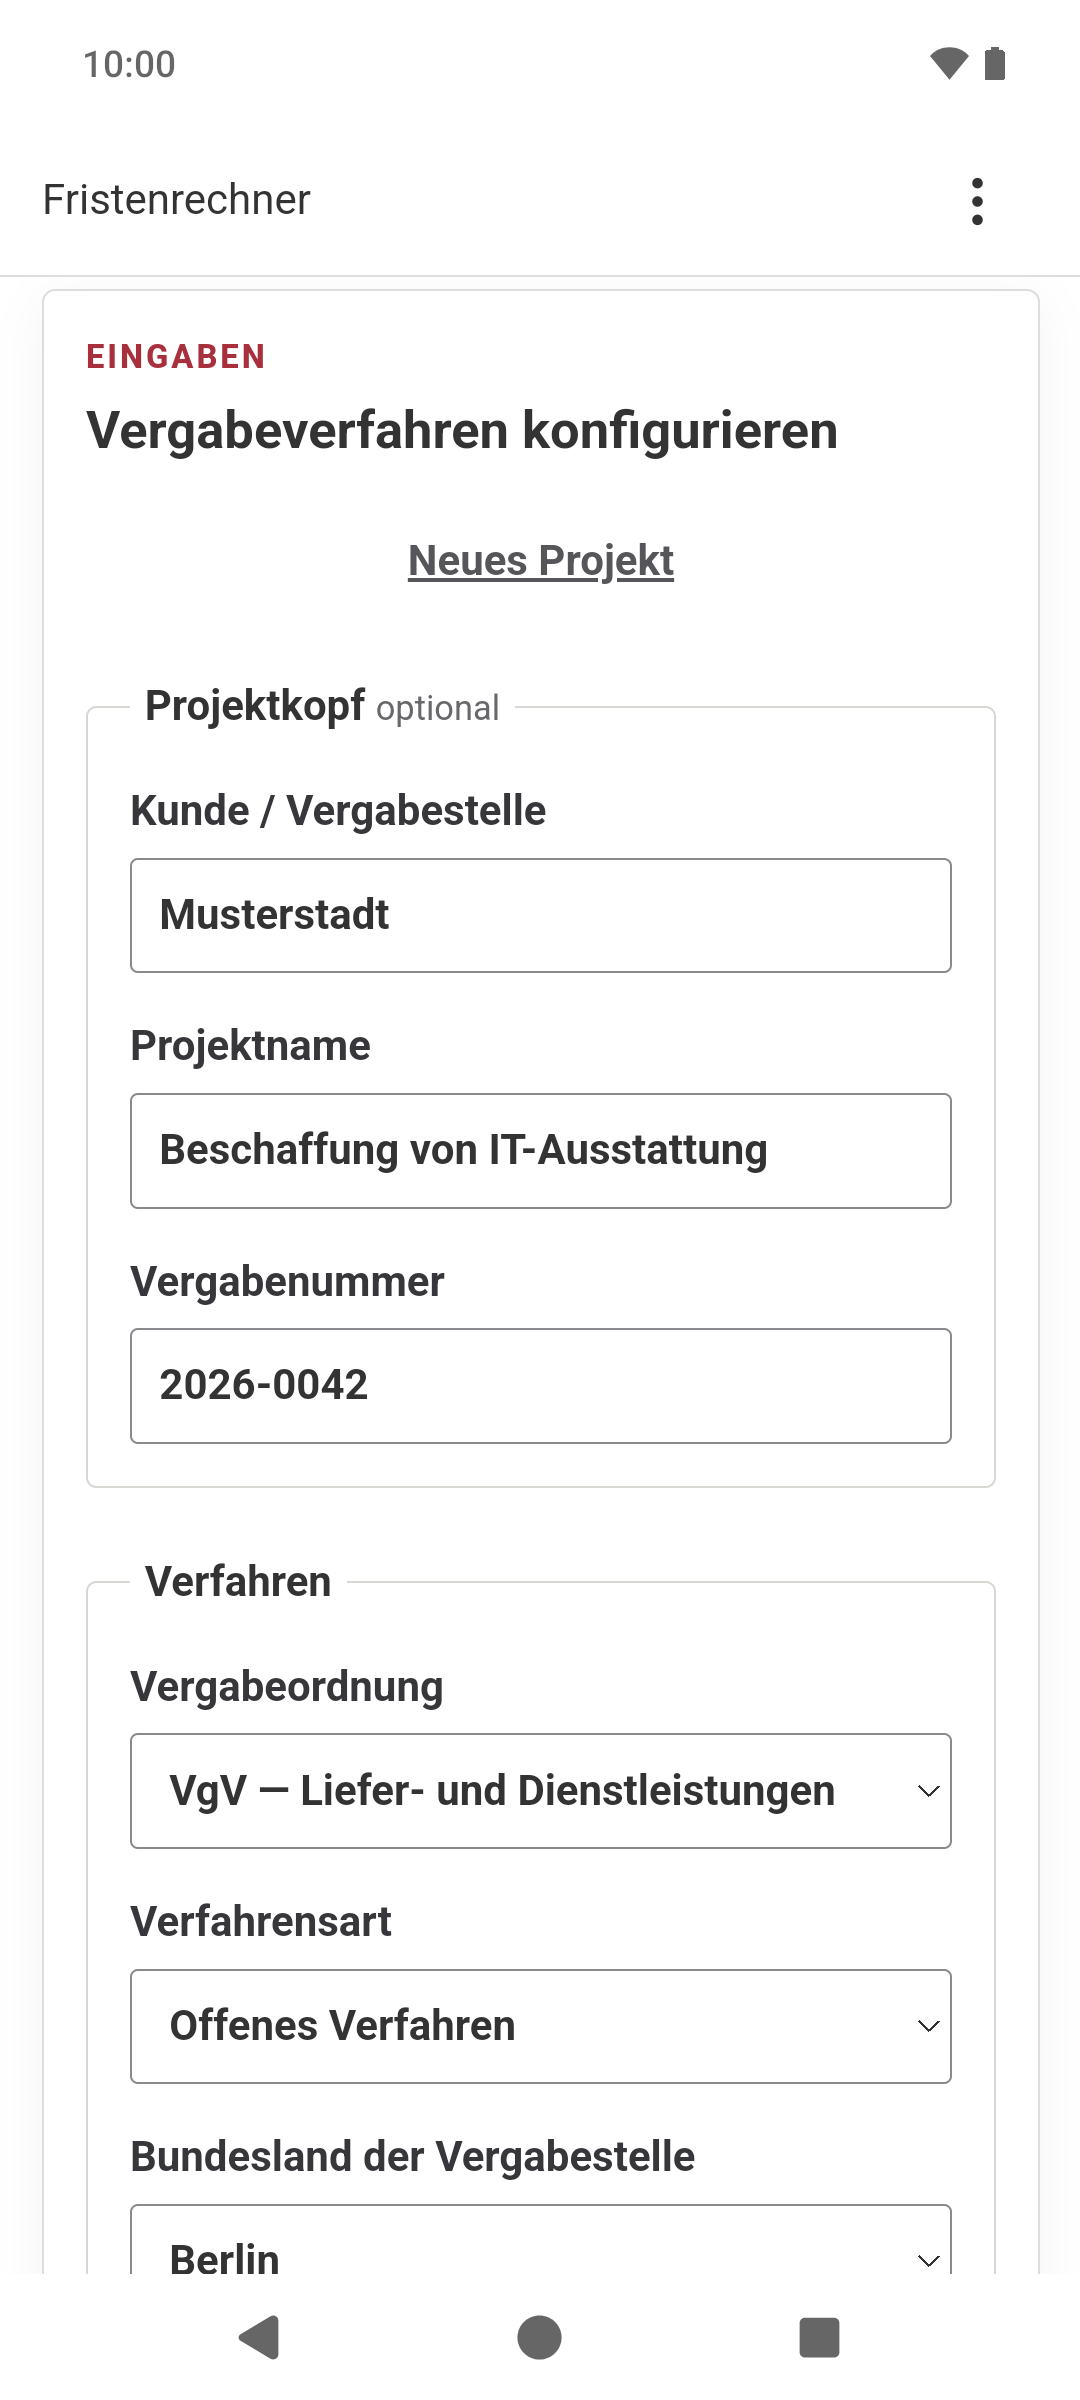
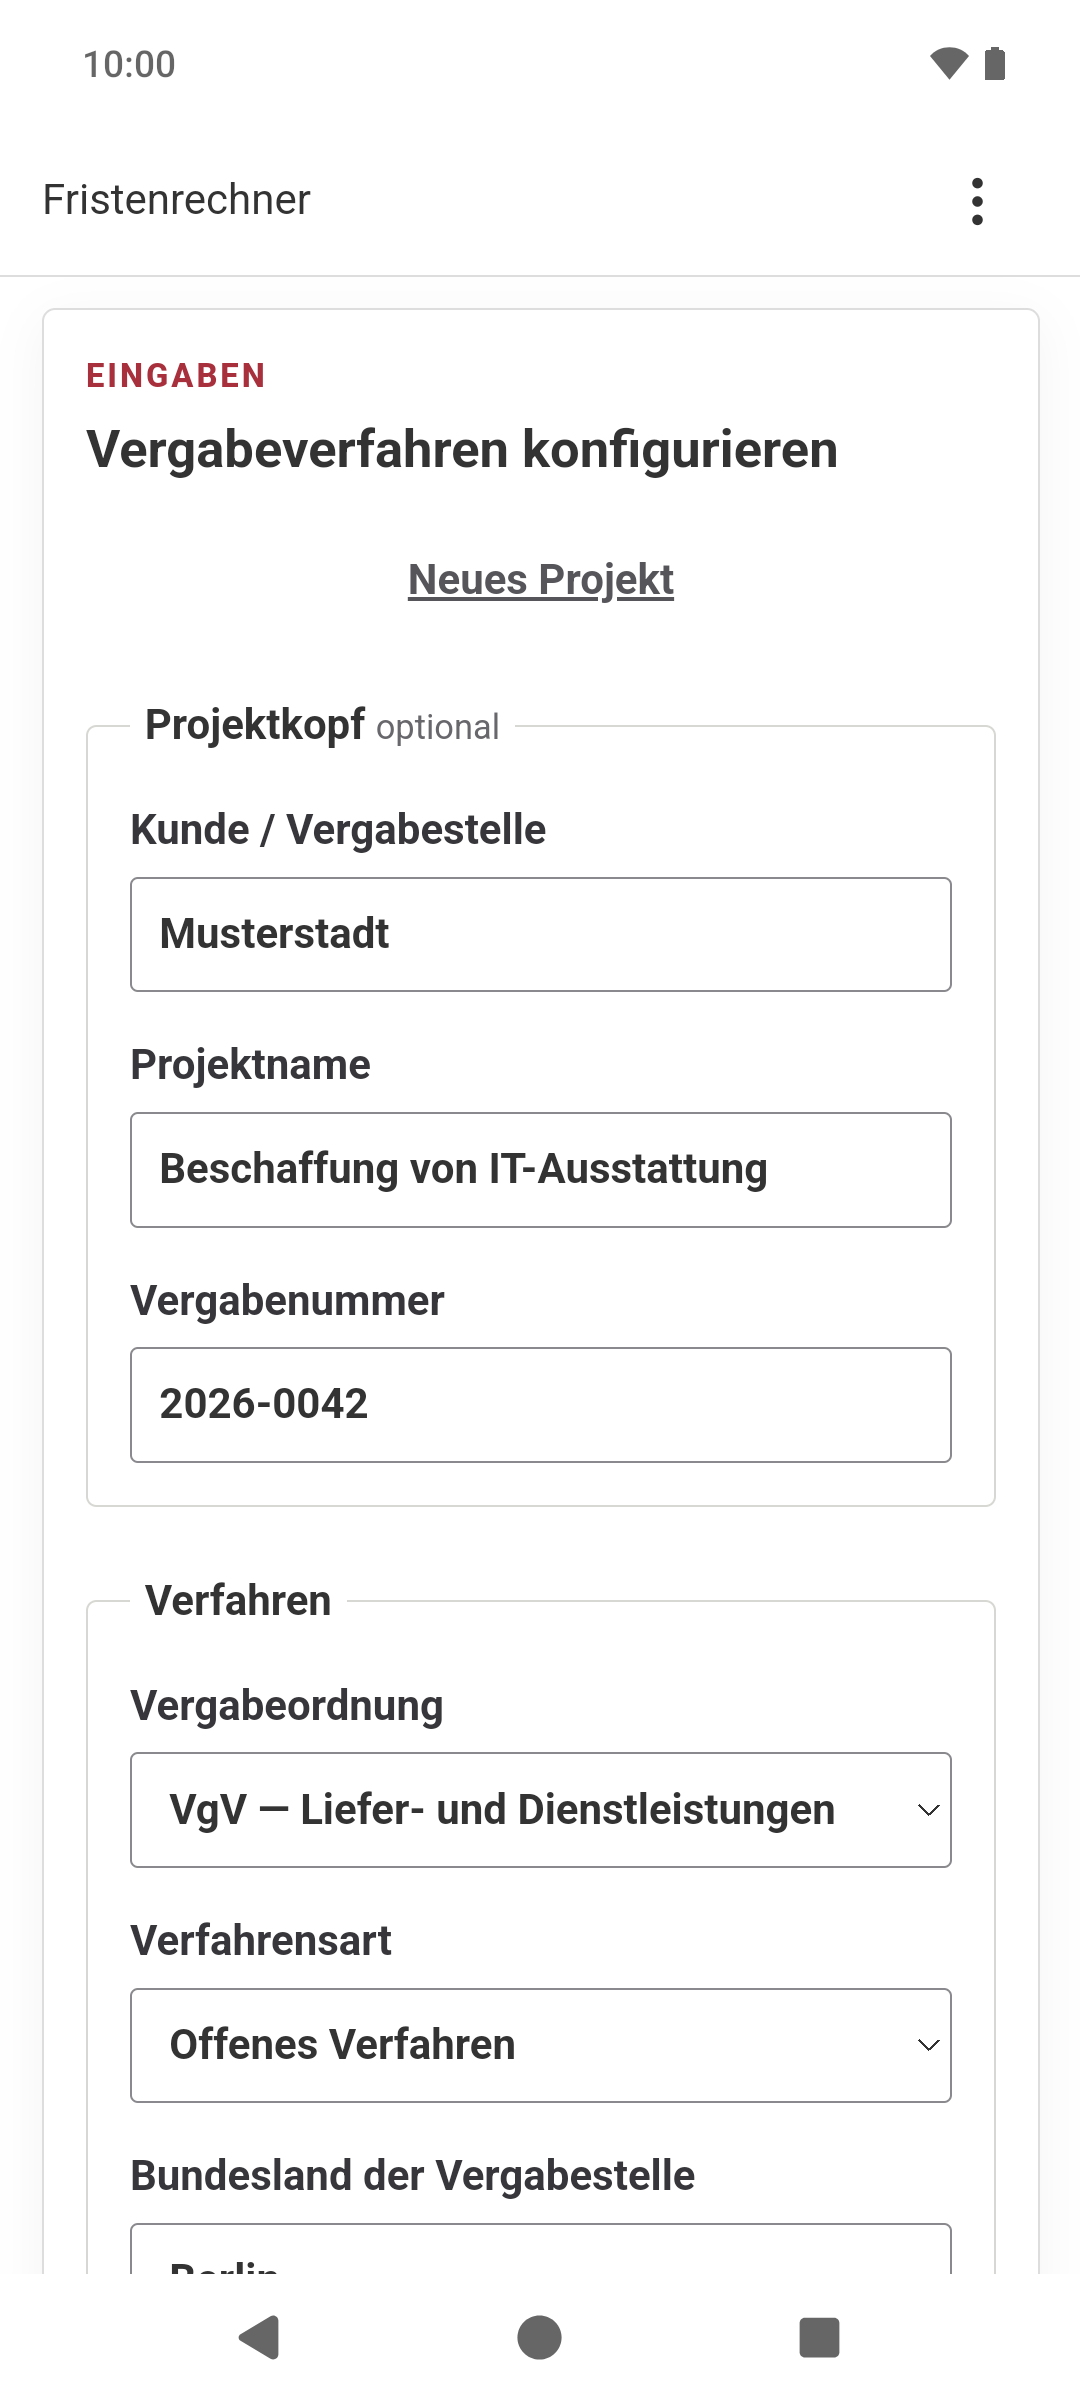
Store-Screenshots: strenge Nachprüfung nach der Aufnahme, fester Rollstand, Tests zu Aufräumen und Layoutruhe
Nach dem Lesereview: Nach der Aufnahme ist jede ungültige Layoutprobe ein Fehler, vor der Aufnahme zählt erst die dritte gleiche gültige Probe in Folge. Der Rollstand wird nach dem Rollen fest aus Ankerlage und Leistenunterkante abgeleitet, weil scrollIntoView zwischen zwei Läufen um neun Gerätepixel abwich. Acht neue Tests (Nachprobe nach der Aufnahme, Installationspfade und fremde Prüfsumme beim Aufräumen, Layoutruhe). Bilder aus Lauf 06, bytegleich zu Lauf 05; Absatz in docs/app.md nachgezogen.

diff --git a/docs/app.md b/docs/app.md
@@ -337,7 +337,7 @@ Der Vergleich gilt für zwei Klone auf demselben Rechner und für den genannten 
 
 `node scripts/store-screenshots.mjs --api 36 --apk-debug app/android/app/build/outputs/apk/debug/app-debug.apk --ausgabe scratchpad/store-screenshots/lauf-01` erstellt vier native PNG-Aufnahmen (1080 × 2400) im bereits laufenden Emulator `fr-api36`: Formular, Terminplantabelle, Zeitschiene und geöffnetes Bottom Sheet „Dateiaktionen“. Voraussetzungen sind die eingerichteten Android-Werkzeuge, Node 22 oder 24 und eine gebaute Debug-APK in diesem Worktree; eine vorhandene App-Installation wird nicht überschrieben. Das Skript startet keinen Emulator und baut keine APK. Es befüllt das reguläre Formular einschließlich Eingabeereignissen und Berechnung mit festen, erfundenen Probedaten („Musterstadt“, Versanddatum 02.11.2026); damit werden dieselben Oberflächenfunktionen wie bei der Eingabe verwendet. Die Gerätebilder entstehen nach Ausrichtung und Layoutruhe per ADB einschließlich Statusleiste im Demo-Modus. Der Lauf protokolliert Werkzeugversionen, Auflösung, APK- und Bildprüfsummen, Daten, Rollstände und Dauer in `protokoll.json`, stellt veränderte Einstellungen zurück und entfernt seine Installation und Weiterleitungen. Temporäre Dateien bleiben unter dem neuen, anfangs leeren Ausgabeordner; externe Netzverbindungen sind nicht vorgesehen, CDP verwendet ausschließlich die lokale ADB-Weiterleitung. `--nur-argumente` prüft den Aufruf ohne Gerätezugriff. Die menschliche Sichtprüfung steht zunächst mit Rückgabewert 4 aus: `sichtpruefung.json` verwendet Schema 2 mit Prüfperson, Datum, Bemerkung und Hashbindung nach dem Muster der Browserprüfung, jedoch die eigene Belegart „Gerätevollbild“ statt Elementausschnitten. Nach der Sichtung wertet `node scripts/store-screenshots.mjs --auswerten --ausgabe scratchpad/store-screenshots/lauf-01` die unveränderten Bilder erneut aus (0 bestanden, 1 Sichtprüfung nicht bestanden, 2 ungültig, 3 dokumentierte Grenze, 4 Sichtprüfung ausstehend). Bytegleichheit muss durch Wiederholung geprüft werden; insbesondere Systemabbild, WebView, Dichte und Systemleisten können Abweichungen verursachen. Ein sichtbarer Warnhinweis, auch zum Rechtsstand bei späterem Gerätedatum, macht die Aufnahme ungültig; das Skript blendet ihn nicht aus. Der Lauf ersetzt weder die Sichtprüfung noch eine Freigabe zur Veröffentlichung.
 
-Stand vom 18.10.2026 am Quellstand `f1f3db3` (Debug-APK aus diesem Stand, Emulator `fr-api36` mit System-WebView 133.0.6943.137, Dichte 420, Schaltflächennavigation): zwei vollständige Läufe lieferten alle vier Bilder bytegleich; ein dritter Lauf dazwischen endete ungültig, weil eine einzelne Layoutprobe direkt nach dem Rollen abgelehnt wurde. Seitdem zählt erst die dritte gleiche gültige Probe in Folge, eine abgelehnte Probe setzt die Zählung zurück, und die Fehlermeldung nennt die letzte Messung. Außerdem erkennt das Aufräumen den Installationspfad von Android 11 und neuer (`/data/app/~~…/`). Die vier Bilder nach Sichtprüfung liegen als `fastlane/metadata/android/de-DE/images/phoneScreenshots/1.png` bis `4.png` (gleich in `en-US`) im Repository; die Bilder tragen die bereinigte Statusleiste und die Probedaten des Skripts, keine Gerätedaten. Jede Änderung an Oberfläche oder App-Seite verlangt einen neuen Lauf, weil die Bilder sonst einen alten Stand zeigen.
+Stand vom 18.10.2026 am Quellstand `f1f3db3` (Debug-APK aus diesem Stand, Emulator `fr-api36` mit System-WebView 133.0.6943.137, Dichte 420, Schaltflächennavigation): Sechs Läufe: Lauf 01 und 03 lieferten vollständige, bytegleiche Bildsätze; Lauf 01 endete trotzdem ungültig, weil das Aufräumen den Installationspfad von Android 11 und neuer (`/data/app/~~…/`) nicht erkannte und die Deinstallation unterblieb; Lauf 02 endete ungültig, weil eine einzelne Layoutprobe direkt nach dem Rollen abgelehnt wurde; Lauf 04 lieferte Bild 1 um neun Gerätepixel vertikal verschoben, weil `scrollIntoView` bei gleicher Dokumentlage des Ankers nicht immer denselben Rollstand ergab. Seitdem erkennt das Aufräumen die Pfadform, der Rollstand wird nach dem Rollen fest aus Ankerlage und Leistenunterkante abgeleitet und auf Gerätepixel gerundet (`rollziel` im Protokoll), vor der Aufnahme zählt erst die dritte gleiche gültige Probe in Folge und eine abgelehnte Probe setzt die Zählung zurück; nach der Aufnahme bleibt jede abgelehnte Probe ein Fehler, damit ein Bild aus einem verdeckten Zustand nicht durch eine spätere Beruhigung gedeckt wird. Die Fehlermeldung nennt die abgelehnte Messung. Lauf 05 und 06 lieferten mit diesem Stand alle vier Bilder bytegleich. Die vier Bilder aus Lauf 06 liegen nach Sichtprüfung als `fastlane/metadata/android/de-DE/images/phoneScreenshots/1.png` bis `4.png` (gleich in `en-US`) im Repository; die Bilder tragen die bereinigte Statusleiste und die Probedaten des Skripts, keine Gerätedaten. Jede Änderung an Oberfläche oder App-Seite verlangt einen neuen Lauf, weil die Bilder sonst einen alten Stand zeigen.
 
 ### Stand vom 30.09.2026
 
